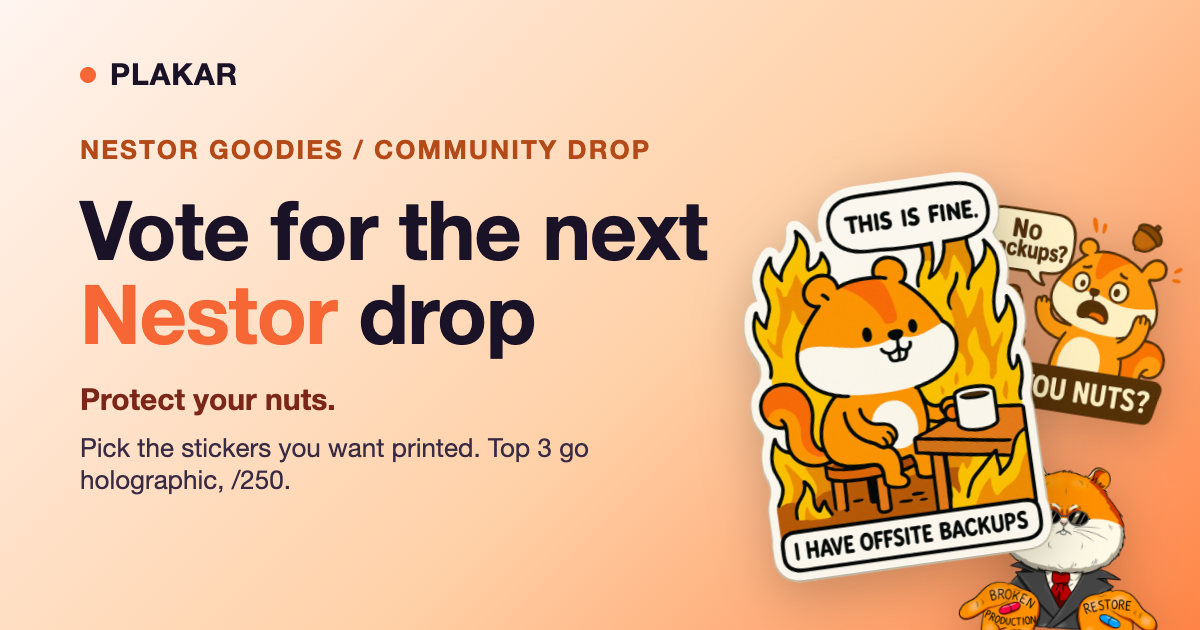
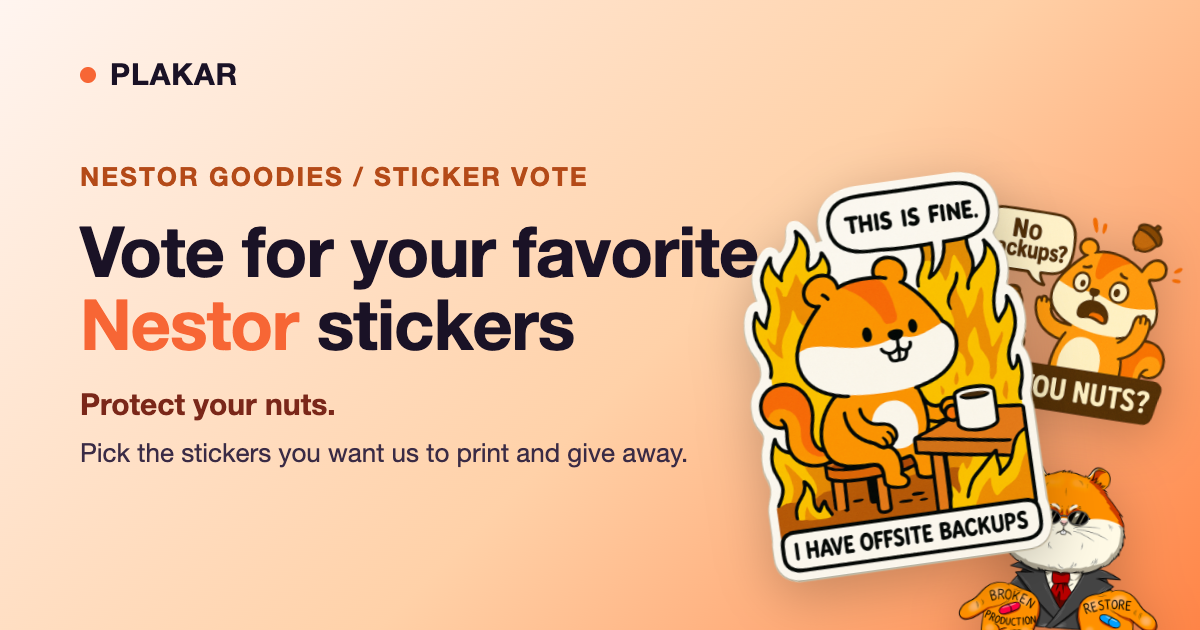
community: reframe goodies vote, drop the "drop", add "how to get goodies"
Per review: the page is now just a vote to help prioritize which stickers to
print and give away, not a limited-edition drop.

- Remove the "how the drop works" tier strip, the booth QR section, and all
  drop / holographic / numbered-/250 language (hero, copy, OG card).
- Reframe the hero and ballot copy around prioritization.
- Standings keeps the top-3 highlight as a simple leader accent (the
  holographic foil animation is gone with the drop concept).
- Add a concise "How to get Plakar goodies" section with four CTAs: organize a
  meetup (github.com/PlakarKorp/plakar-meetups), spread the word (email
  hello@plakar.io so we can promote it), improve the docs (docs repo), and
  contribute code (Contributing Guide). Kept short and linked to /community/ so
  it does not duplicate that page.
- Keep a compact share band (X / LinkedIn), no QR.

Changed region(s): [[0.0617, 0.2111, 0.6475, 0.573], [0.0617, 0.6937, 0.5858, 0.7841], [0.0617, 0.6032, 0.2775, 0.6635]]

diff --git a/layouts/goodies/single.html b/layouts/goodies/single.html
@@ -13,75 +13,46 @@
   {{ end }}
 {{ end }}
 
-{{ $nestorRocket := resources.Get "img/nestor/nestor-rocket.png" }}
-{{ $qr := resources.Get "img/nestor/goodies-qr.svg" }}
 {{ $pageURL := "https://www.plakar.io/community/goodies/" }}
-{{ $shareText := "I just voted for the next Nestor sticker drop. Protect your nuts." }}
+{{ $shareText := "I just voted for the next Nestor stickers. Protect your nuts." }}
 
 <!-- Hero -->
 <section class="section-secondary-1 pt-44 pb-10">
   <div class="max-w-350 mx-auto px-4 flex flex-col items-center text-center gap-6">
     <span class="inline-flex items-center gap-2 text-sm font-semibold uppercase tracking-wide px-3 py-1 rounded-full text-secondary-700 bg-secondary-50">
       <span class="w-2 h-2 rounded-full bg-secondary-500"></span>
-      Nestor Goodies / Community Drop
+      Nestor Goodies / Sticker Vote
     </span>
     <h1 class="text-4xl lg:text-6xl font-medium leading-tighter max-w-5xl">
-      Vote for the next <span class="text-secondary-500">Nestor</span> drop
+      Vote for your favorite <span class="text-secondary-500">Nestor</span> stickers
     </h1>
     <p class="text-lg lg:text-2xl text-neutral-700 max-w-3xl">
-      Pick the stickers you would fight to get printed. The community's top 3 get
-      pressed as limited edition <span class="text-secondary-500 font-semibold">holographic</span>
-      stickers: foil, individually numbered /250, handed out in person only.
+      Tell us which stickers you want to see printed. Your votes help us
+      prioritize what we produce and hand out at events and online.
     </p>
     <p class="text-xl lg:text-2xl font-semibold text-secondary-600">Protect your nuts.</p>
     <div class="flex flex-wrap items-center justify-center gap-3 pt-2">
       <a href="#ballot" class="inline-flex items-center gap-2 px-5 py-3 rounded-lg font-semibold text-neutral-50 bg-secondary-500 hover:bg-secondary-600 transition-colors focus-visible:outline-none focus-visible:ring-2 focus-visible:ring-secondary-500 focus-visible:ring-offset-2">
         Cast your ballot
       </a>
-      <a href="#drop" class="inline-flex items-center gap-2 px-5 py-3 rounded-lg font-semibold text-secondary-700 bg-neutral-50 border border-secondary-200 hover:border-secondary-400 transition-colors focus-visible:outline-none focus-visible:ring-2 focus-visible:ring-secondary-500 focus-visible:ring-offset-2">
-        How the drop works
+      <a href="#get-goodies" class="inline-flex items-center gap-2 px-5 py-3 rounded-lg font-semibold text-secondary-700 bg-neutral-50 border border-secondary-200 hover:border-secondary-400 transition-colors focus-visible:outline-none focus-visible:ring-2 focus-visible:ring-secondary-500 focus-visible:ring-offset-2">
+        How to get goodies
       </a>
     </div>
   </div>
 </section>
 
-<!-- How the drop works -->
-<section id="drop" class="section-light-2 py-14 lg:py-20 scroll-mt-24">
-  <div class="max-w-350 mx-auto px-4 flex flex-col gap-10">
-    <div class="flex flex-col gap-3 text-center items-center">
-      <h2 class="text-3xl lg:text-5xl font-medium text-neutral-900">
-        How the <span class="text-secondary-500">drop</span> works
-      </h2>
-      <p class="text-base lg:text-xl text-neutral-600 max-w-3xl">
-        Three finishes, one rule: rarer stickers are earned, not bought. Every
-        conference is a new drop. Trade your doubles at the booth to complete the set.
-      </p>
-    </div>
-    <div class="grid grid-cols-1 md:grid-cols-3 gap-6">
-      {{ range $data.tiers }}
-        {{ $isLegendary := eq .key "legendary" }}
-        <div class="relative flex flex-col gap-3 p-6 rounded-lg border {{ if $isLegendary }}border-secondary-400 bg-secondary-50{{ else }}border-neutral-300 bg-neutral-50{{ end }} shadow-sm{{ if $isLegendary }} goodies-foil-card{{ end }}">
-          <div class="flex items-center justify-between gap-2">
-            <span class="text-sm font-semibold uppercase tracking-wide {{ if $isLegendary }}text-secondary-600{{ else }}text-neutral-500{{ end }}">{{ .name }}</span>
-            <span class="text-xs font-semibold px-2 py-0.5 rounded-full {{ if $isLegendary }}text-neutral-50 bg-secondary-500{{ else }}text-neutral-600 bg-neutral-200{{ end }} uppercase tracking-wide">{{ .finish }}</span>
-          </div>
-          <p class="text-neutral-700 text-base lg:text-lg leading-snug">{{ .line }}</p>
-        </div>
-      {{ end }}
-    </div>
-  </div>
-</section>
-
 <!-- Ballot: controls -->
-<section id="ballot" class="section-light-1 pt-12 lg:pt-16 scroll-mt-24">
+<section id="ballot" class="section-light-1 pt-14 lg:pt-20 scroll-mt-24">
   <div class="max-w-350 mx-auto px-4 flex flex-col gap-6">
     <div class="flex flex-col gap-2">
       <h2 class="text-3xl lg:text-5xl font-medium text-neutral-900">
         The <span class="text-secondary-500">ballot</span>
       </h2>
       <p class="text-base lg:text-xl text-neutral-600 max-w-3xl">
-        Toggle a vote on every sticker you want printed. Pick as many as you like:
-        one vote per sticker.
+        Toggle a vote on every sticker you want printed. Pick as many as you
+        like: one vote per sticker. We use the results to prioritize what we
+        print and give away.
       </p>
     </div>
 
@@ -104,8 +75,8 @@
     <!-- Honest persistence + running tally -->
     <div class="flex flex-col sm:flex-row sm:items-center sm:justify-between gap-3 p-4 rounded-lg border border-neutral-200 bg-neutral-50">
       <p class="text-sm text-neutral-600 leading-snug">
-        Your picks are saved on this device. Global tallies and the live community
-        standings go live once the ballot is wired to the backend.
+        Your picks are saved on this device. Global tallies and the live
+        community standings go live once the ballot is wired to the backend.
       </p>
       <p class="text-sm font-semibold text-neutral-700 shrink-0">
         Your picks: <span id="goodies-mine-count" class="text-secondary-600" aria-live="polite">0</span>
@@ -125,8 +96,6 @@
 
           <!-- Rank badge (Standings view only) -->
           <span class="goodies-rank" aria-hidden="true" hidden></span>
-          <!-- Holographic foil overlay (top 3 in Standings) -->
-          <span class="goodies-foil" aria-hidden="true"></span>
 
           <!-- Sticker art -->
           <div class="relative h-52 sm:h-56 flex items-center justify-center rounded-lg bg-neutral-50 overflow-hidden">
@@ -175,82 +144,68 @@
       {{ end }}
     </div>
 
-    <p id="goodies-empty" class="text-center text-neutral-500 py-10" hidden>No stickers in this series yet. Check back after the next drop.</p>
+    <p id="goodies-empty" class="text-center text-neutral-500 py-10" hidden>No stickers in this series yet. Check back after the next batch.</p>
   </div>
 </section>
 
-<!-- Booth QR + share -->
-<section class="section-gradient-secondary-1 py-14 lg:py-24">
-  <div class="max-w-350 mx-auto px-4 flex flex-col lg:flex-row items-center gap-10 lg:gap-16">
-
-    <!-- QR -->
-    <div class="flex flex-col items-center gap-3 shrink-0">
-      <div class="bg-neutral-50 p-4 rounded-2xl shadow-lg border border-neutral-200">
-        {{ with $qr }}
-          <img src="{{ .RelPermalink }}" width="200" height="200" alt="QR code linking to this voting page" class="w-40 h-40 lg:w-48 lg:h-48">
-        {{ end }}
-      </div>
-      <p class="text-sm font-medium text-neutral-800">Scan at the booth to vote</p>
+<!-- Share -->
+<section class="section-secondary-1 py-12 lg:py-16">
+  <div class="max-w-350 mx-auto px-4 flex flex-col sm:flex-row sm:items-center sm:justify-between gap-5">
+    <div class="flex flex-col gap-1">
+      <h2 class="text-2xl lg:text-3xl font-medium text-neutral-900">Know someone with strong sticker opinions?</h2>
+      <p class="text-neutral-700 text-base lg:text-lg">Send them the ballot. More votes, better picks.</p>
     </div>
+    <div class="flex flex-wrap items-center gap-3 shrink-0">
+      <a href="https://twitter.com/intent/tweet?{{ querify "text" $shareText "url" $pageURL | safeURL }}"
+        target="_blank" rel="noopener noreferrer"
+        class="inline-flex items-center gap-2 px-5 py-3 rounded-lg font-semibold text-neutral-50 bg-neutral-900 hover:bg-neutral-800 transition-colors focus-visible:outline-none focus-visible:ring-2 focus-visible:ring-secondary-500 focus-visible:ring-offset-2">
+        <span class="w-5 h-5">{{ partial "icon.html" "ri/twitter-x-line" }}</span>
+        Share on X
+      </a>
+      <a href="https://www.linkedin.com/sharing/share-offsite/?{{ querify "url" $pageURL | safeURL }}"
+        target="_blank" rel="noopener noreferrer"
+        class="inline-flex items-center gap-2 px-5 py-3 rounded-lg font-semibold text-neutral-50 bg-[#0a66c2] hover:opacity-90 transition-opacity focus-visible:outline-none focus-visible:ring-2 focus-visible:ring-secondary-500 focus-visible:ring-offset-2">
+        <span class="w-5 h-5">{{ partial "icon.html" "ri/linkedin-box-fill" }}</span>
+        Share on LinkedIn
+      </a>
+    </div>
+  </div>
+</section>
 
-    <!-- Share -->
-    <div class="flex flex-col gap-5 text-center lg:text-left">
+<!-- How to get Plakar goodies -->
+<section id="get-goodies" class="section-light-2 py-14 lg:py-24 scroll-mt-24">
+  <div class="max-w-350 mx-auto px-4 flex flex-col gap-10">
+    <div class="flex flex-col gap-3 max-w-3xl">
       <h2 class="text-3xl lg:text-5xl font-medium text-neutral-900">
-        Rally your <span class="text-secondary-500">crew</span>
+        How to get <span class="text-secondary-500">Plakar goodies</span>
       </h2>
-      <p class="text-base lg:text-xl text-neutral-800 max-w-2xl">
-        More votes, better drop. Share the ballot and get the stickers you want on
-        the print run.
+      <p class="text-base lg:text-xl text-neutral-600">
+        Goodies go to the people who show up for the project. Here are the best
+        ways to get involved, and get stickers in hand.
       </p>
-      <div class="flex flex-wrap items-center justify-center lg:justify-start gap-3">
-        <a href="https://twitter.com/intent/tweet?{{ querify "text" $shareText "url" $pageURL | safeURL }}"
-          target="_blank" rel="noopener noreferrer"
-          class="inline-flex items-center gap-2 px-5 py-3 rounded-lg font-semibold text-neutral-50 bg-neutral-900 hover:bg-neutral-800 transition-colors focus-visible:outline-none focus-visible:ring-2 focus-visible:ring-secondary-500 focus-visible:ring-offset-2">
-          <span class="w-5 h-5">{{ partial "icon.html" "ri/twitter-x-line" }}</span>
-          Share on X
-        </a>
-        <a href="https://www.linkedin.com/sharing/share-offsite/?{{ querify "url" $pageURL | safeURL }}"
-          target="_blank" rel="noopener noreferrer"
-          class="inline-flex items-center gap-2 px-5 py-3 rounded-lg font-semibold text-neutral-50 bg-[#0a66c2] hover:opacity-90 transition-opacity focus-visible:outline-none focus-visible:ring-2 focus-visible:ring-secondary-500 focus-visible:ring-offset-2">
-          <span class="w-5 h-5">{{ partial "icon.html" "ri/linkedin-box-fill" }}</span>
-          Share on LinkedIn
-        </a>
-      </div>
     </div>
-  </div>
-</section>
 
-<!-- Community tie-in -->
-<section class="section-light-2 py-14 lg:py-20">
-  <div class="max-w-350 mx-auto px-4 flex flex-col items-center text-center gap-6">
-    {{ with $nestorRocket }}
-      {{ $r := .Fit "240x240 webp q80" }}
-      <img src="{{ $r.RelPermalink }}" width="{{ $r.Width }}" height="{{ $r.Height }}" loading="lazy" alt="Nestor on a rocket" class="w-28 h-28 object-contain">
-    {{ end }}
-    <h2 class="text-2xl lg:text-4xl font-medium text-neutral-900">
-      Built by dreamers, <span class="text-secondary-500">powered by community</span>
-    </h2>
-    <p class="text-base lg:text-xl text-neutral-600 max-w-2xl">
-      The drops are just the fun part. Come build the open-source standard for data
-      protection with us.
-    </p>
-    <div class="flex flex-wrap items-center justify-center gap-3">
-      {{ partial "components/buttons/base-button.html" (dict
-        "label" "Join us on Discord"
-        "href" "https://discord.gg/uuegtnF2Q5"
-        "target" "_blank"
-        "icon" "discord"
-        "bgColor" "bg-secondary-500"
-        "bgHoverColor" "bg-secondary-600"
-      ) }}
-      {{ partial "components/buttons/base-button.html" (dict
-        "label" "Explore the Community"
-        "href" "/community/"
-        "icon" "ri/open-source-line"
-        "bgColor" "bg-neutral-900"
-        "bgHoverColor" "bg-neutral-800"
-      ) }}
+    <div class="grid grid-cols-1 md:grid-cols-2 gap-6">
+      {{ range $data.contribute }}
+        <div class="flex flex-col gap-3 p-6 rounded-lg border border-neutral-300 bg-neutral-50 shadow-sm">
+          <h3 class="text-xl lg:text-2xl font-semibold text-secondary-500">{{ .title }}</h3>
+          <p class="text-neutral-700 text-base lg:text-lg leading-snug flex-1">{{ .body }}</p>
+          <a href="{{ .cta_href }}"{{ if .external }} target="_blank" rel="noopener noreferrer"{{ end }}
+            class="inline-flex items-center gap-2 self-start mt-1 px-4 py-2.5 rounded-lg font-semibold text-neutral-50 bg-secondary-500 hover:bg-secondary-600 transition-colors focus-visible:outline-none focus-visible:ring-2 focus-visible:ring-secondary-500 focus-visible:ring-offset-2">
+            {{ .cta_label }}
+            <svg viewBox="0 0 20 20" fill="none" class="w-4 h-4" aria-hidden="true">
+              <path d="M5 10h10M11 5l5 5-5 5" stroke="currentColor" stroke-width="2" stroke-linecap="round" stroke-linejoin="round"/>
+            </svg>
+          </a>
+        </div>
+      {{ end }}
     </div>
+
+    <p class="text-base text-neutral-600">
+      There is more to the community than swag.
+      <a href="/community/" class="text-secondary-600 underline font-medium">Explore the Plakar Community</a>
+      for daily briefings, hackrooms, weekly calls, and how to contribute.
+    </p>
   </div>
 </section>
 

diff --git a/assets/css/custom.css b/assets/css/custom.css
@@ -449,63 +449,7 @@ table.Nm {
 }
 .goodies-card.is-top3 {
   border-color: rgb(var(--color-secondary-400));
-}
-
-.goodies-foil {
-  position: absolute;
-  inset: 0;
-  z-index: 10;
-  border-radius: inherit;
-  pointer-events: none;
-  opacity: 0;
-  background-image: linear-gradient(
-    115deg,
-    transparent 20%,
-    rgba(255, 133, 71, 0.28),
-    rgba(82, 76, 255, 0.24),
-    rgba(255, 133, 71, 0.28),
-    transparent 80%
-  );
-  background-size: 300% 300%;
-  transition: opacity 0.3s ease;
-}
-.goodies-card.is-top3 .goodies-foil {
-  opacity: 1;
-  animation: goodies-foil-move 4s linear infinite;
-}
-
-.goodies-foil-card {
-  position: relative;
-  overflow: hidden;
-}
-.goodies-foil-card::after {
-  content: "";
-  position: absolute;
-  inset: 0;
-  pointer-events: none;
-  background-image: linear-gradient(
-    115deg,
-    transparent 35%,
-    rgba(255, 255, 255, 0.4),
-    transparent 65%
-  );
-  background-size: 250% 250%;
-  opacity: 0.55;
-  animation: goodies-foil-move 5s linear infinite;
-}
-
-@keyframes goodies-foil-move {
-  0% {
-    background-position: 0% 50%;
-  }
-  100% {
-    background-position: 100% 50%;
-  }
-}
-
-@media (prefers-reduced-motion: reduce) {
-  .goodies-card.is-top3 .goodies-foil,
-  .goodies-foil-card::after {
-    animation: none;
-  }
+  box-shadow:
+    0 0 0 1px rgb(var(--color-secondary-400)),
+    0 10px 25px -5px rgba(0, 0, 0, 0.15);
 }

diff --git a/content/goodies/index.md b/content/goodies/index.md
@@ -1,9 +1,8 @@
 ---
-title: "Vote for the Next Nestor Drop"
+title: "Vote for Your Favorite Nestor Stickers"
 description:
-  "Pick the Nestor stickers you want printed. The community's top 3 become
-  limited edition holographic stickers, foil, numbered /250, handed out in
-  person at our next event."
+  "Vote for the Nestor stickers you want us to print and give away at events and
+  online. Your picks help us prioritize the next batch of goodies."
 url: "/community/goodies/"
 type: "goodies"
 layout: "single"
